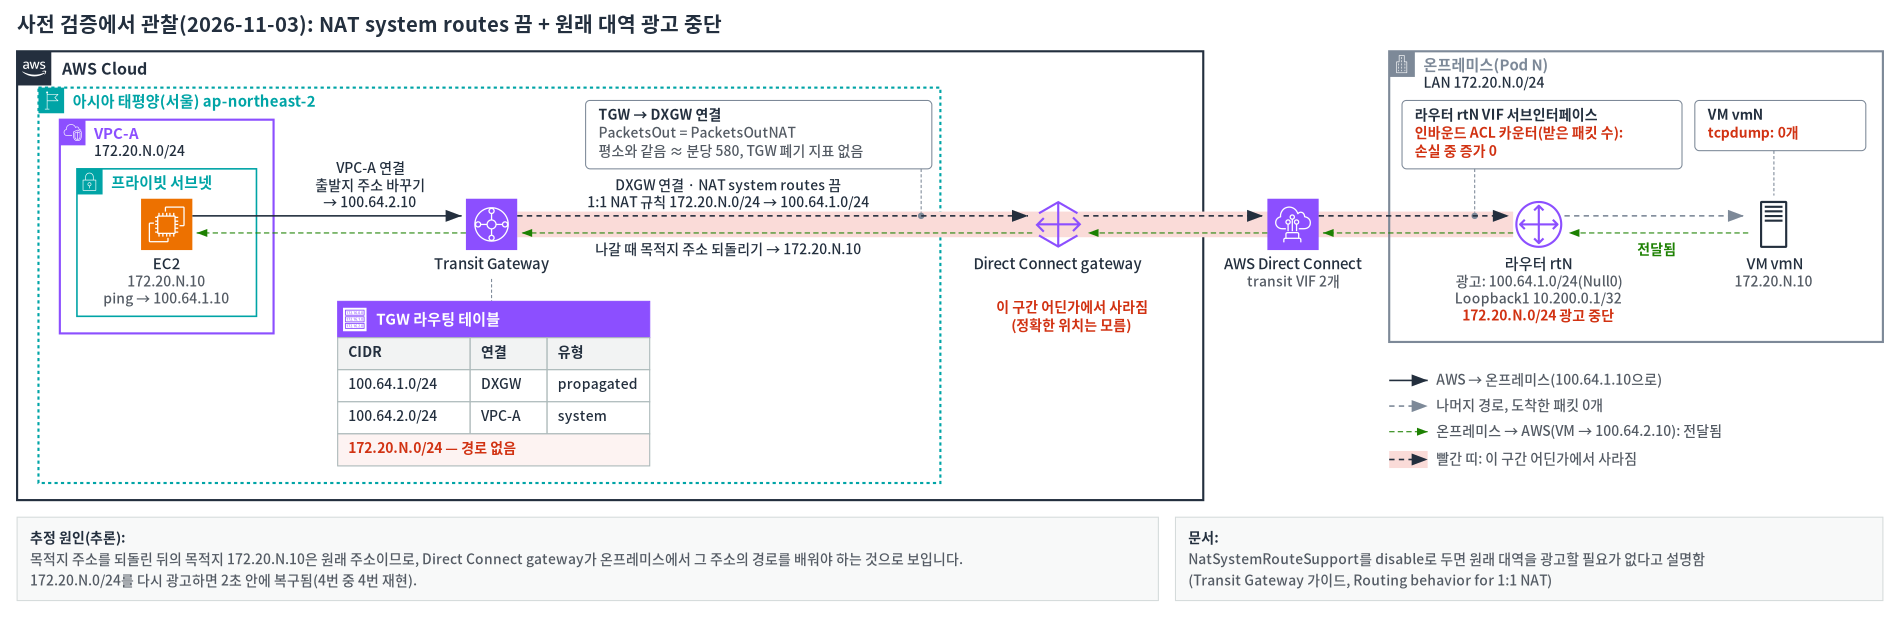
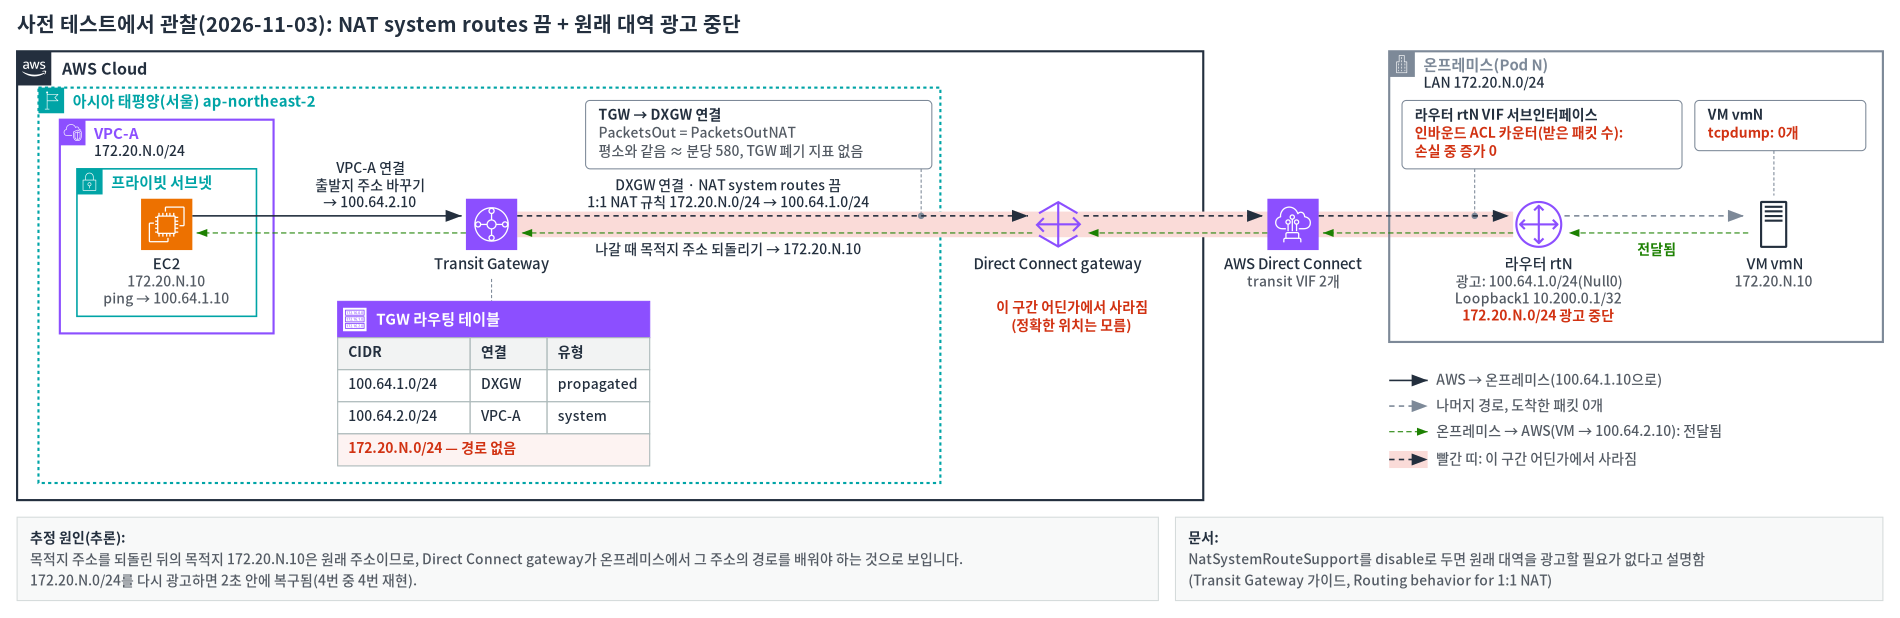
Use pre-test as the single term for all pre-workshop testing in pages, menu, plan and diagrams

Changed region(s): [[0.0311, 0.0, 0.4037, 0.0615]]

diff --git a/PLAN.md b/PLAN.md
@@ -1,6 +1,6 @@
 # 워크숍 계획: AWS Transit Gateway 1:1 NAT로 겹치는 온프레미스 대역 연결하기 (L200)
 
-> 상태: **초안 3(콘솔 사전 테스트 반영)** · 작성 2026-11-03 · 근거: 사전 검증(2026-11-03, ap-northeast-2, DX Lab Pod 1개), 콘솔 사전 테스트(2026-11-03, 사전 테스트 계정, Pod 89)
+> 상태: **초안 3(콘솔 사전 테스트 반영)** · 작성 2026-11-03 · 근거: 사전 테스트(2026-11-03, ap-northeast-2, DX Lab Pod 1개), 콘솔 사전 테스트(2026-11-03, 사전 테스트 계정, Pod 89)
 
 이 문서는 워크숍 콘텐츠를 쓰기 전에 목표, 과제, 진행 방식을 정하는 계획서입니다. 확정되면 이 계획에 따라 GitHub Pages 사이트를 만듭니다.
 
@@ -69,7 +69,7 @@
 - 라우터와 Linux VM은 DX Lab 포털의 웹 터미널로 접속합니다. 라우터 설정은 참가자 값을 채워 넣는 템플릿(`<POD>`, `<VLAN1>`, `<AWS_PEER1>`, `<BGP_KEY1>` 등)으로 제공하고, 각 값을 어디서 찾는지 표로 안내합니다.
 - 오래 걸리는 프로비저닝은 발표 앞이나 다른 작업과 겹치게 배치합니다. 콘솔 사전 테스트 측정값(13절): hosted connection 수락 → `available` 약 3분, 스택 6분 17초, 게이트웨이 연결 약 3분, 전송 가상 인터페이스는 라우터 BGP 설정 후 약 3분 안에 `available`·BGP `up`, 1:1 NAT 저장 → `enabled` 약 13초.
 - 과제마다 **확인 포인트**(무엇이 보이면 성공인지)와 **문제 해결 팁**을 둡니다. 실패처럼 보이지만 기대한 결과인 단계는 미리 알려 줍니다.
-- 공식 문서 내용과 사전 검증에서 관찰한 내용을 구분해 씁니다. 관찰한 내용에는 "사전 검증에서 관찰(날짜, 조건)"을 붙입니다.
+- 공식 문서 내용과 사전 테스트에서 관찰한 내용을 구분해 씁니다. 관찰한 내용에는 "사전 테스트에서 관찰(날짜, 조건)"을 붙입니다.
 
 ## 6. 진행표(2시간)
 
@@ -103,13 +103,13 @@
 |---|---|---|---|
 | A | NAT 없는 VPC와 원래 경로 | VM ↔ VPC-B, VPC-B → 두 NAT 대역, VPC-B → 원래 주소 `172.20.N.10`, Loopback 출발지 | 목적지와 상관없이 SNAT. 원래 주소로 보내면 VPC-A가 아니라 온프레미스 VM에 도착(VM tcpdump), ping은 0/5·TCP는 시간 초과가 **기대한 결과**(VPC-B Flow Logs에 REJECT) |
 | B | 경로 설치 옵션 | `enable`에서 라우터의 /24 광고를 멈춰 `system` 경로 `blackhole` 확인 → /16 요약 광고로 복구. `disable` 전환은 ① 라우터에서 `100.64.1.0/24`(Null0) 광고 추가 ② 라우팅 테이블에서 `system` 그대로인지 확인 ③ **Manage 1:1 NAT**에서 NAT system route support 끄기 ④ `propagated`로 바뀐 것 확인. 되돌리기는 ① 원래 대역 광고 유지 확인 ② 다시 켜기 ③ `100.64.1.0/24` 광고·Null0 삭제. **원래 대역 광고는 끝까지 유지**합니다(주의 상자) | blackhole과 복구, `disable`에서 `propagated` NAT 경로, 전환 중 손실 없음 |
-| C | 관측 | CloudWatch에서 연결별 `PacketsInNAT`·`PacketsOutNAT`·폐기 지표, Logs Insights로 TGW Flow Logs와 VPC Flow Logs(`pkt-srcaddr`) 비교 | 번역이 일어난 연결마다 NAT 지표 증가(문서). TGW Flow Logs는 양 끝의 실제 주소를 기록(사전 검증에서 관찰) |
+| C | 관측 | CloudWatch에서 연결별 `PacketsInNAT`·`PacketsOutNAT`·폐기 지표, Logs Insights로 TGW Flow Logs와 VPC Flow Logs(`pkt-srcaddr`) 비교 | 번역이 일어난 연결마다 NAT 지표 증가(문서). TGW Flow Logs는 양 끝의 실제 주소를 기록(사전 테스트에서 관찰) |
 | D | 정리 | 8절 순서대로 삭제 | 남은 리소스 없음 |
 
 ### 7.3 주의 상자: NAT System Route Support `disable`과 원래 대역 광고
 
 - 문서: [Routing behavior for 1:1 NAT](https://docs.aws.amazon.com/vpc/latest/tgw/tgw-nat-routing.html)는 `disable`이면 온프레미스가 원래 CIDR을 광고할 필요가 없고, 원래 CIDR이 다른 연결의 CIDR과 겹치면 NAT CIDR을 광고한 뒤 원래 CIDR 광고를 멈추라고 설명합니다. 이 워크숍의 시나리오가 바로 그 경우입니다.
-- 사전 검증에서 관찰(2026-11-03, ap-northeast-2, Direct Connect 게이트웨이 연결, 50Mbps hosted connection 2개, 라우터 IOS XE 16.12, Pod 1개):
+- 사전 테스트에서 관찰(2026-11-03, ap-northeast-2, Direct Connect 게이트웨이 연결, 50Mbps hosted connection 2개, 라우터 IOS XE 16.12, Pod 1개):
   - 원래 대역 광고를 멈추자 **AWS → 온프레미스 방향**이 끊겼습니다. 온프레미스 → AWS 방향은 전달됐습니다.
   - 다시 광고하자 2초 안에 복구됐습니다. 4번 반복해 4번 모두 같았고, 5분 넘게 유지해도 회복되지 않았습니다.
   - Transit Gateway는 패킷을 번역해 DXGW 쪽 연결로 내보냈지만(`PacketsOutNAT` 평소 수준), 라우터에는 도착하지 않았습니다(인바운드 ACL 카운터 0). 어디서 버려졌는지는 확인하지 못했습니다.
@@ -140,7 +140,7 @@
 | dnf | S3 gateway endpoint(AL2023 저장소만 허용) |
 | 로그 | TGW Flow Logs, VPC Flow Logs(`pkt-srcaddr`·`pkt-dstaddr` 포함, 집계 60초) → CloudWatch Logs(스택과 함께 삭제), 전송용 IAM 역할 |
 
-- 사전 검증에 쓴 템플릿을 바탕으로 만들고, 계정 ID·내부 이름·비공개 저장소 참조는 넣지 않습니다.
+- 사전 테스트에 쓴 템플릿을 바탕으로 만들고, 계정 ID·내부 이름·비공개 저장소 참조는 넣지 않습니다.
 - VPC 라우팅 테이블과 보안 그룹은 NAT 대역을 미리 포함합니다. 과제 4에서 이유를 설명합니다(상대가 NAT 대역으로 보이므로).
 - 허용된 접두사에 VPC-A의 실제 대역을 넣지 않는 이유를 과제 1에서 설명합니다(온프레미스 LAN과 같은 대역이고, 허용된 접두사는 적은 그대로 온프레미스에 광고됨).
 

diff --git a/docs/extra-b.md b/docs/extra-b.md
@@ -65,7 +65,7 @@ DXGW 연결에는 **NAT system routes** 설정이 있습니다. NAT 대역(`100.
 끄면 Transit Gateway는 NAT 대역 경로를 만들지 않습니다. 라우터가 `100.64.1.0/24`를 직접 광고해야 합니다. **순서가 중요합니다.** 광고를 먼저 추가하고 끕니다.
 
 !!! warning "원래 대역 광고는 계속 유지하세요"
-    끈 상태에서도 라우터의 `172.20.N.0/24` 광고는 그대로 둡니다. 문서는 끈 경우 원래 대역을 광고할 필요가 없다고 설명하지만, 사전 검증에서는 원래 대역 광고를 멈추자 통신이 끊겼습니다. 자세한 내용은 [사전 검증에서 관찰한 동작](observed.md)에 있습니다.
+    끈 상태에서도 라우터의 `172.20.N.0/24` 광고는 그대로 둡니다. 문서는 끈 경우 원래 대역을 광고할 필요가 없다고 설명하지만, 사전 테스트에서는 원래 대역 광고를 멈추자 통신이 끊겼습니다. 자세한 내용은 [사전 테스트에서 관찰한 동작](observed.md)에 있습니다.
 
 1. 라우터에서 `100.64.1.0/24` 광고를 추가합니다. 여기서도 `Null0` 경로는 광고용입니다.
 
@@ -107,6 +107,6 @@ DXGW 연결에는 **NAT system routes** 설정이 있습니다. NAT 대역(`100.
 | 설정 | NAT 대역 경로 | 라우터가 할 일 |
 |---|---|---|
 | 켬(기본값) | Transit Gateway가 **System** 경로로 만듦 | 원래 대역과 겹치는 경로를 계속 광고 |
-| 끔 | 만들지 않음 | NAT 대역을 직접 광고. 사전 검증에서는 원래 대역 광고도 계속 필요했음 |
+| 끔 | 만들지 않음 | NAT 대역을 직접 광고. 사전 테스트에서는 원래 대역 광고도 계속 필요했음 |
 
 문서에 따르면 끄는 것은 광고 내용을 직접 정하고 싶을 때입니다. 예를 들어 피어마다 더 작은 대역을 광고하거나, 한쪽을 대기용으로 두려고 AS-path를 늘리거나(AS-path prepending), 두 경로를 똑같이 쓰려고(ECMP) 속성을 맞추는 경우입니다.

diff --git a/docs/extra-c.md b/docs/extra-c.md
@@ -63,7 +63,7 @@ parse @message "* * * * * * * * * * * * * * * * * * * *" as ver, vpc, eni, srcad
 
 **결과**
 
-- **TGW Flow Logs**는 VM과 VPC-A EC2 사이 트래픽을 `172.20.N.10 → 172.20.N.10`처럼 **양 끝의 실제 주소**로 남깁니다. 출발지는 바뀌기 전, 목적지는 되돌린 뒤의 주소입니다. 이 내용은 사전 검증(2026-11-03)에서 관찰한 것이고 문서에는 설명이 없습니다.
+- **TGW Flow Logs**는 VM과 VPC-A EC2 사이 트래픽을 `172.20.N.10 → 172.20.N.10`처럼 **양 끝의 실제 주소**로 남깁니다. 출발지는 바뀌기 전, 목적지는 되돌린 뒤의 주소입니다. 이 내용은 사전 테스트(2026-11-03)에서 관찰한 것이고 문서에는 설명이 없습니다.
 - **VPC Flow Logs**는 VPC 안에서 보이는 주소를 남깁니다. 기록은 ENI(EC2나 Transit Gateway가 VPC 안에서 쓰는 네트워크 인터페이스)마다 남습니다.
     - EC2의 ENI 기록에는 상대가 `100.64.1.10`으로 보입니다.
     - Transit Gateway의 ENI 기록에서는 `srcaddr`가 그 ENI 자신의 주소입니다. 실제 상대 주소는 `pkt_srcaddr`, `pkt_dstaddr`에 있습니다.

diff --git a/docs/concepts.md b/docs/concepts.md
@@ -46,5 +46,5 @@
 
 - **DNS**: 1:1 NAT는 패킷의 주소만 바꿉니다. 그래서 DNS가 알려 주는 주소는 실제 주소 그대로입니다. 상대가 이름으로 접근하려면 NAT 주소용 DNS 레코드를 따로 두어야 합니다(추론, 문서에서 DNS 설명은 찾지 못함).
 - **원래 경로**: NAT 뒤에도 온프레미스가 광고한 원래 경로는 Transit Gateway에 남습니다([추가 과제 A-3](extra-a.md#a3)).
-- **UDP**: 사전 검증에서 UDP도 TCP, ICMP와 같은 방식으로 바뀌는 것을 확인했습니다.
-- **pending 상태**: 문서에 나오지 않지만, 사전 검증에서 규칙을 처음 저장한 직후 API 응답에 잠시 pending이 보였습니다. 콘솔에서는 바로 activated로 보였습니다.
+- **UDP**: 사전 테스트에서 UDP도 TCP, ICMP와 같은 방식으로 바뀌는 것을 확인했습니다.
+- **pending 상태**: 문서에 나오지 않지만, 사전 테스트에서 규칙을 처음 저장한 직후 API 응답에 잠시 pending이 보였습니다. 콘솔에서는 바로 activated로 보였습니다.

diff --git a/docs/extra-a.md b/docs/extra-a.md
@@ -62,7 +62,7 @@ VM의 웹 서버는 그대로 둡니다(A-2에서 띄운 것).
 - VM의 응답은 DXGW 연결을 지나며 출발지가 `100.64.1.10`으로 바뀝니다.
 - VPC-B 입장에서는 보낸 적 없는 주소에서 응답이 온 셈입니다.
 - ping 응답은 VPC-B EC2까지 도착합니다(보안 그룹이 `100.64.1.0/24`의 ICMP를 허용). 하지만 보낸 주소와 다른 주소에서 온 응답이라 ping이 성공으로 세지 않은 것으로 보입니다(추론).
-- TCP 응답(SYN-ACK)은 VPC-B 보안 그룹이 거부합니다. 사전 검증(2026-11-03)에서 VPC Flow Logs의 **REJECT** 기록으로 확인했습니다.
+- TCP 응답(SYN-ACK)은 VPC-B 보안 그룹이 거부합니다. 사전 테스트(2026-11-03)에서 VPC Flow Logs의 **REJECT** 기록으로 확인했습니다.
 
 !!! warning "실제 환경에서 주의할 점"
     NAT를 건 VPC의 원래 주소로는 다른 네트워크가 보내지 않게 하세요. 의도하지 않은 곳(이 실습에서는 온프레미스)으로 갈 수 있습니다.

diff --git a/docs/observed.md b/docs/observed.md
@@ -1,4 +1,4 @@
-# 사전 검증에서 관찰한 동작
+# 사전 테스트에서 관찰한 동작
 
 공식 문서와 다르게 동작한 것을 관찰한 기록입니다. 워크숍에서는 이 동작을 직접 재현하지 않습니다.
 
